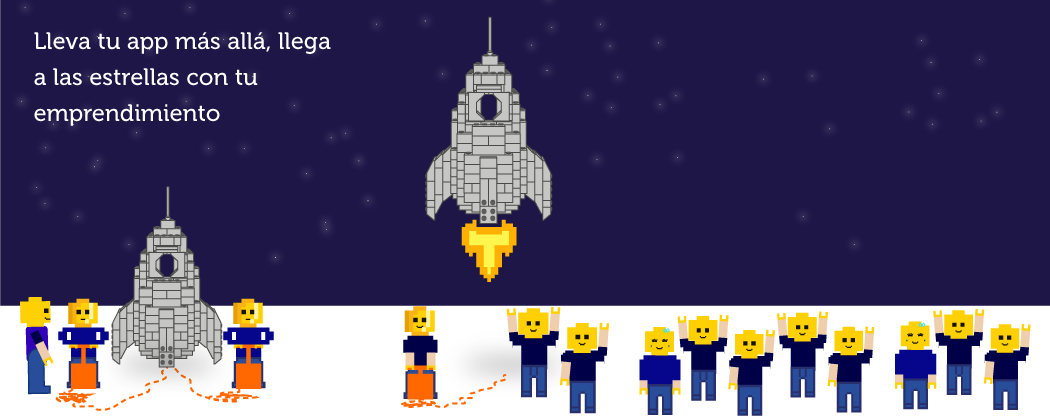
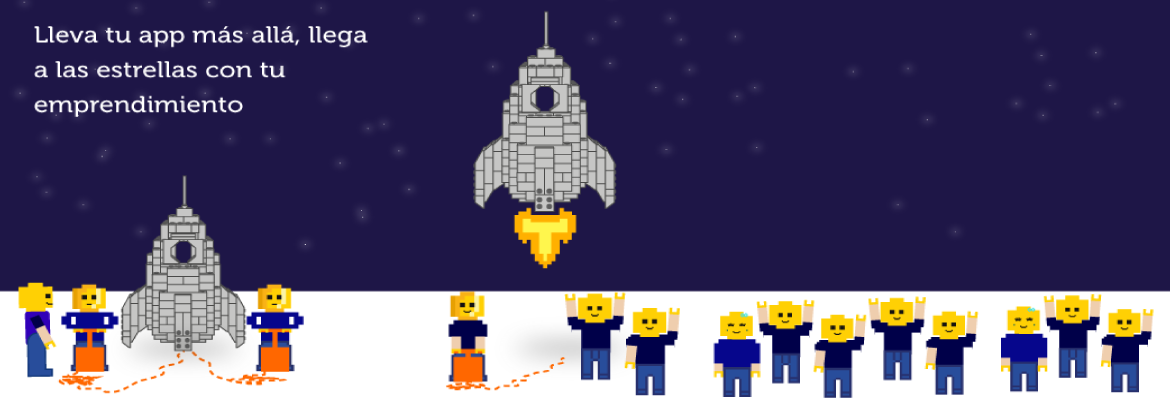
Fixing template responsiveness.

diff --git a/css/component.css b/css/component.css
@@ -3,7 +3,7 @@
 .hero-right {
 	width: 25%;
 	position: absolute;
-	right: 7%;
+	right: 2%;
 	top: 6%;
 	z-index: 1;
 	background: rgba(255, 255, 255, 0.75);
@@ -29,9 +29,9 @@
 
 .cbp-fwslider {
 	position: relative;
-	margin: -25px auto 0px;
+	margin: 0px auto;
 	overflow: hidden;
-	width: 90%;
+	width: 100%;
 }
 
 .cbp-fwslider ul {
@@ -117,7 +117,7 @@
 }
 
 .cbp-fwdots span.cbp-fwcurrent {
-	background: #00ff00;
+	background: #0098a0;
 }
 
 /*Home*/
@@ -126,7 +126,7 @@
 	background: #0098a0;
 	position: absolute;
 	width: 100%;
-	height: 475px;
+	height: 480px;
 	z-index: -1;
 	left: 0;
 	top: 0;
@@ -140,4 +140,45 @@
 	padding: 33px 6px 32px;
 	font-weight: bold;
 	position: relative;
+}
+
+@media (max-width: 1100px) and (min-width: 801px) {
+
+	.background-hero-right {
+		height: 400px;
+	}
+
+}
+
+@media (max-width: 800px) and (min-width: 300px) {
+
+	.cbp-fwslider {
+	    width: 100%;
+	}
+
+	.hero-right {
+		top: 25px;
+		width: 35%;
+	}
+
+	.background-hero-right {
+		height: 328px;
+	}
+
+}
+
+@media (max-width: 610px) {
+
+	.background-hero-right {
+		height: 304px;
+	}
+
+}
+
+@media (max-width: 550px) {
+
+	.background-hero-right {
+		height: 249px;
+	}
+
 }

diff --git a/less/bootstrapwp3.css b/less/bootstrapwp3.css
@@ -8205,11 +8205,18 @@ Overriding some defaults from the Bootstrap defaults to improve/fix integration 
   color: #ffffff;
   text-decoration: none;
 }
+
 .navbar .navbar-inner div.nav ul li.current_page_item a {
   color: #ffffff;
   text-decoration: none;
-  background-color: #030072;
+  background-color: #1E1647;
+  font-weight: lighter;
 }
+
+.navbar .navbar-inner div.nav ul li.current_page_item a:hover {
+  background-color: #221177;
+}
+
 /* Scrollspy Subnav Position Fix
 ----------------------------------------------------------------------------------------*/
 .subnav-fixed {
@@ -10424,13 +10431,6 @@ section.infoApp {
     width: 180px;
   }
 
-  .cbp-fwslider {
-    position: relative;
-    margin: -25px auto 0px;
-    overflow: hidden;
-    width: 87%;
-  }
-
 }
 
 @media (max-width: 979px) {
@@ -10442,6 +10442,15 @@ section.infoApp {
     margin: -10px;
   }
 }
+
+@media (max-width: 800px) and (min-width: 300px) {
+
+  .blackbottom {
+    display: none;
+  }
+
+}
+
 @media (min-width: 768px) and (max-width: 979px) {
   .span3.sbPaisWrap {
     width: 225px;

diff --git a/page-home-yearly.php b/page-home-yearly.php
@@ -37,8 +37,8 @@ get_header(); ?>
           </div>
 
 </div>  
-            <div class="blackbottom span"> 
-            </div>
+<!--             <div class="blackbottom span"> 
+            </div> -->
                 
 </header>
 
